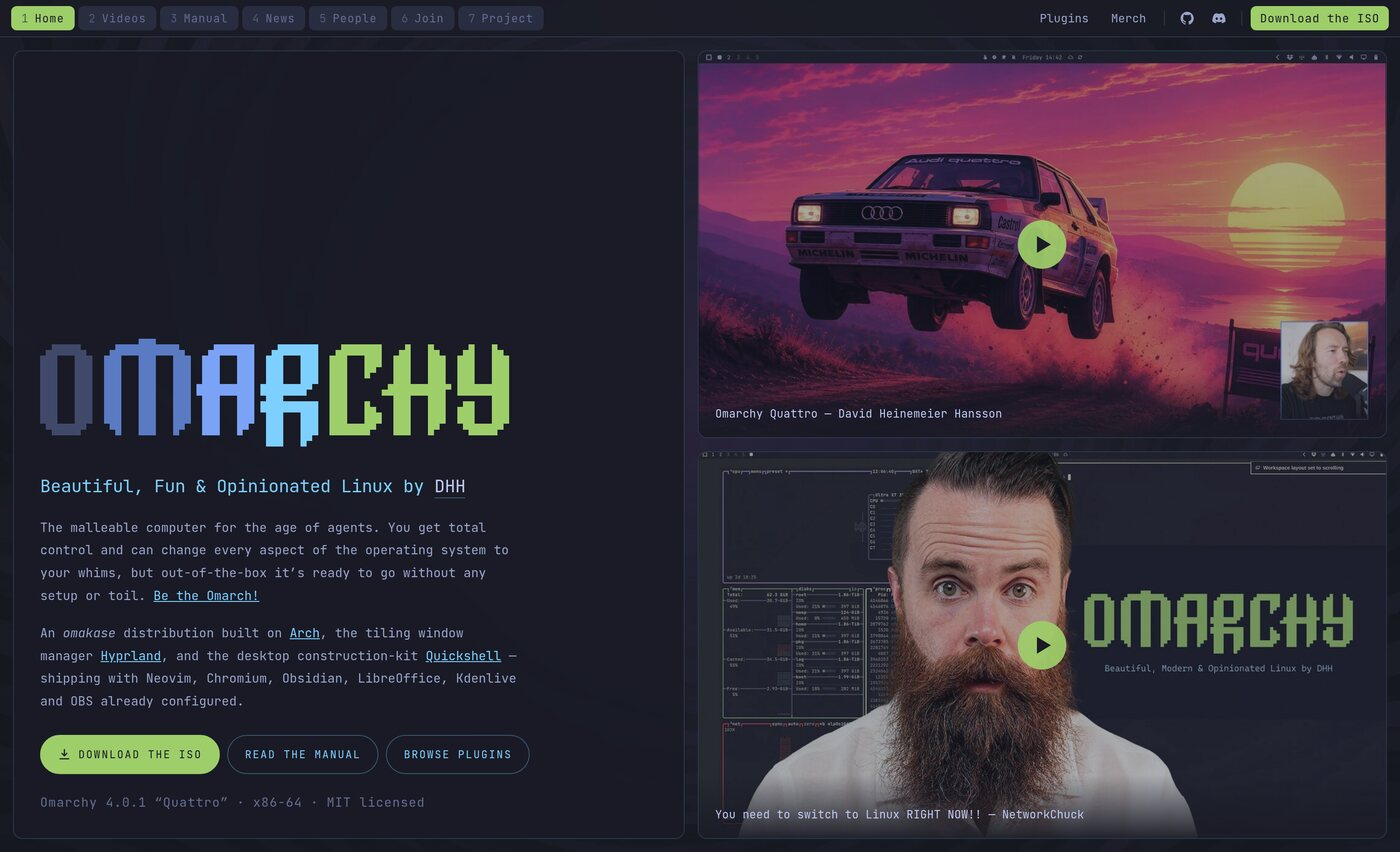
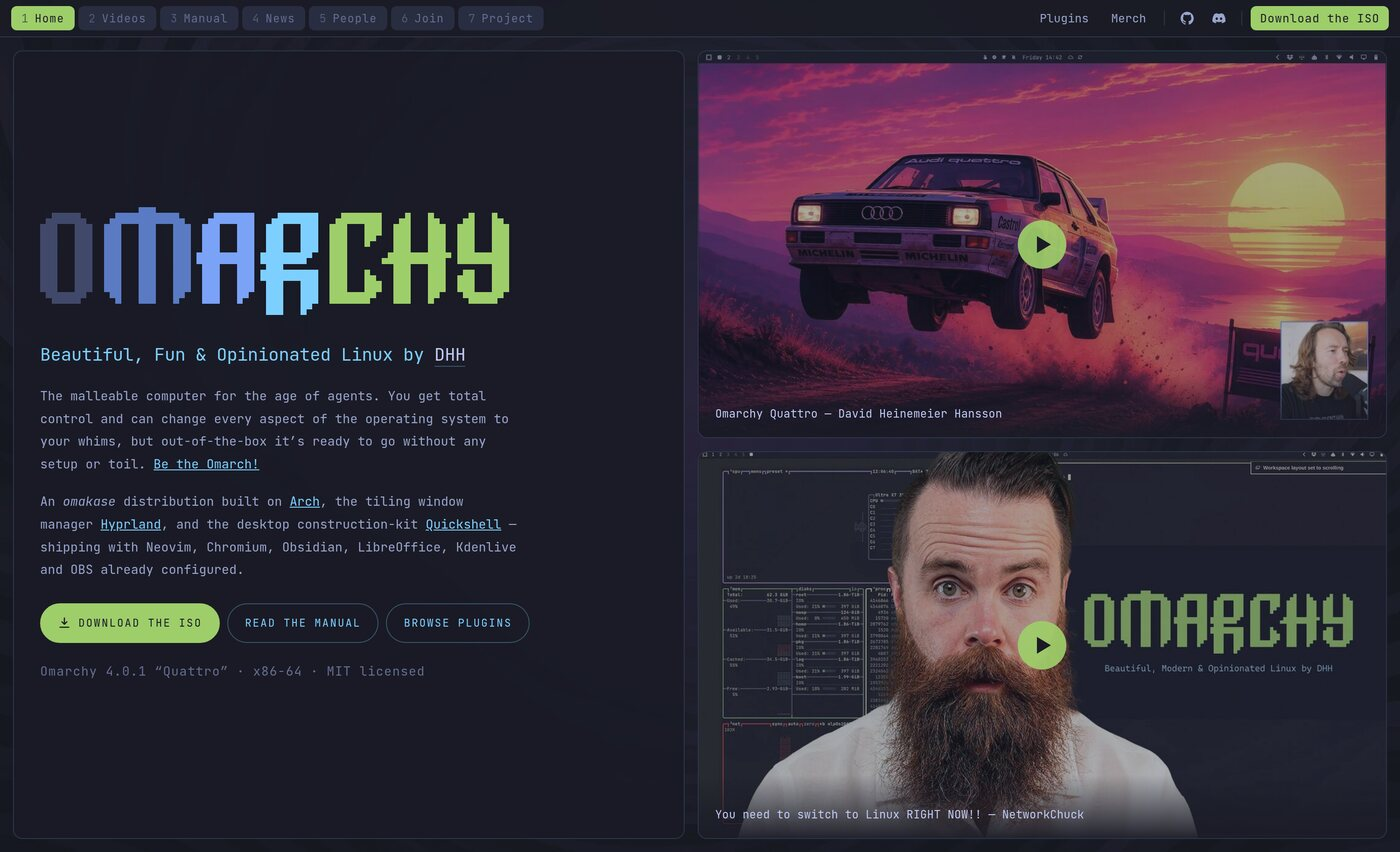
Balance the hero: slack was piling up above the wordmark
margin-top:auto pushed the block down to counterweight the credit line, but
that line was removed, leaving 317px empty above the wordmark and 25px below.
Measured 36% of the pane. Now centred: 167 top, 175 bottom.

diff --git a/assets/css/shell.css b/assets/css/shell.css
@@ -196,7 +196,8 @@ a{color:inherit}
 .vstack{display:flex;flex-direction:column;gap:var(--gap);height:100%;min-height:0}
 .vstack .win.flush{flex:1 1 0;min-height:0;width:100%}
 /* the home workspace is fixed-height; scroll rather than clip on short viewports */
-#ws-home .win.hero{overflow-y:auto}
+/* centre the block so slack splits top and bottom instead of piling at the top */
+#ws-home .win.hero{overflow-y:auto;justify-content:center}
 
 /* ==========================================================================
    Type
@@ -204,7 +205,7 @@ a{color:inherit}
 h1,h2,h3,h4{color:var(--glow);margin:0;font-weight:700;letter-spacing:-.01em;text-wrap:balance}
 
 /* the wordmark is the hero; the tagline supports it rather than competing */
-.hero .mark{margin-top:auto;line-height:0}
+.hero .mark{line-height:0}
 .hero .bigmark{
   width:100%;max-width:min(560px,76%);height:auto;display:block;
 }
